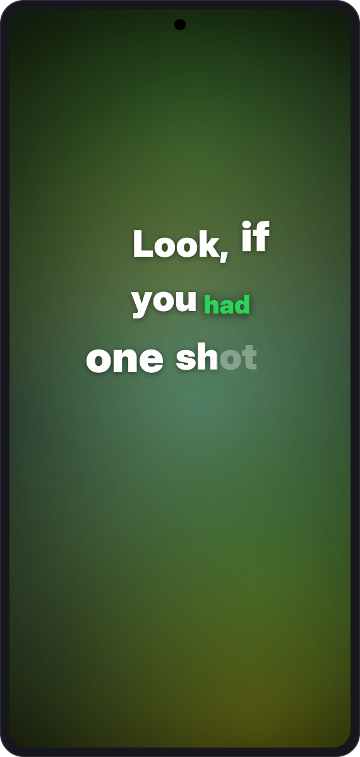
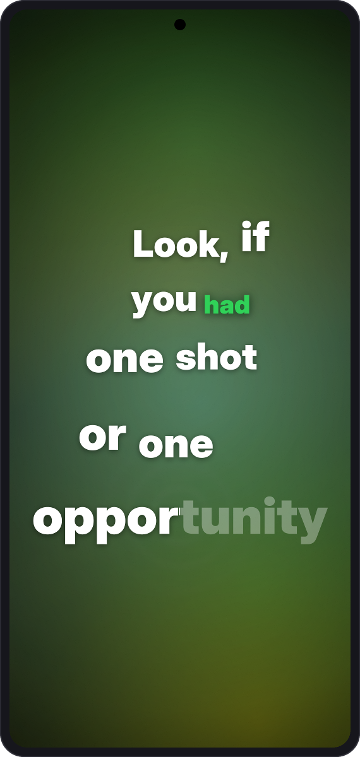
Release 0.1.1; screenshots show whole lines, Bengali uses Ekla Chalo Re
Each layout frame now shows its line fully sung. The Bengali shot quotes
Tagore's "Ekla Chalo Re" instead of a national anthem.

Claude-Session: https://claude.ai/code/session_01MLXWG1CmD9ZGWnpi2j6esJ

diff --git a/tools/screenshots/src/Render.kt b/tools/screenshots/src/Render.kt
@@ -525,10 +525,10 @@ fun main() {
     val shots = listOf(
         Shot("stack", "rickroll", "Never gonna", TemplateId.STACK, sunset, 0.85f, 11, 4),
         Shot("zoom", "rickroll", "Never gonna let", TemplateId.ZOOM, dusk, 0.85f, 3, 9, fill = -0.04f),
-        Shot("graph", "tumhiho", "हम तेरे", TemplateId.GRAPH, ember, 0.7f, 21, 2),
-        Shot("flow", "lemon", "夢ならば", TemplateId.FLOW, ocean, 0.55f, 5, 6),
-        Shot("letters", "sonarbangla", "আমার", TemplateId.LETTERS, rose, 0.6f, 8, 3),
-        Shot("scatter", "loseyourself", "Look,", TemplateId.SCATTER, forest, 0.62f, 13, 5),
+        Shot("graph", "tumhiho", "हम तेरे", TemplateId.GRAPH, ember, 0.99f, 21, 2),
+        Shot("flow", "lemon", "夢ならば", TemplateId.FLOW, ocean, 0.99f, 5, 6),
+        Shot("letters", "eklacholo", "যদি", TemplateId.LETTERS, rose, 0.99f, 8, 3),
+        Shot("scatter", "loseyourself", "Look,", TemplateId.SCATTER, forest, 0.99f, 13, 5),
     )
     val phones = HashMap<String, BufferedImage>()
     for (s in shots) {

diff --git a/README.md b/README.md
@@ -30,7 +30,7 @@ LyricStage shows word-synced lyrics for whatever is playing on your Android phon
 
 Tap the stage to show the controls for three seconds: seek bar, play and pause, skip and the layout picker. The lyrics fade back while the controls are open.
 
-The images above are drawn by the app's own layout engine (`core`) with the bundled fonts. The background is an approximation of the shader. The lyric lines are short excerpts quoted to show the layouts: Rick Astley, "Never Gonna Give You Up"; Arijit Singh, "Tum Hi Ho"; Kenshi Yonezu, "Lemon"; Rabindranath Tagore, "Amar Shonar Bangla"; Eminem, "Lose Yourself". `tools/screenshots/render.sh` regenerates them.
+The images above are drawn by the app's own layout engine (`core`) with the bundled fonts. The background is an approximation of the shader. The lyric lines are short excerpts quoted to show the layouts: Rick Astley, "Never Gonna Give You Up"; Arijit Singh, "Tum Hi Ho"; Kenshi Yonezu, "Lemon"; Rabindranath Tagore, "Ekla Chalo Re"; Eminem, "Lose Yourself". `tools/screenshots/render.sh` regenerates them.
 
 ## Install
 

diff --git a/CHANGELOG.md b/CHANGELOG.md
@@ -1,6 +1,6 @@
 # Changelog
 
-## [Unreleased]
+## [0.1.1]
 
 ### Changed
 - The controls overlay is simpler: sync nudge and .lrc import moved to a "This song" section
